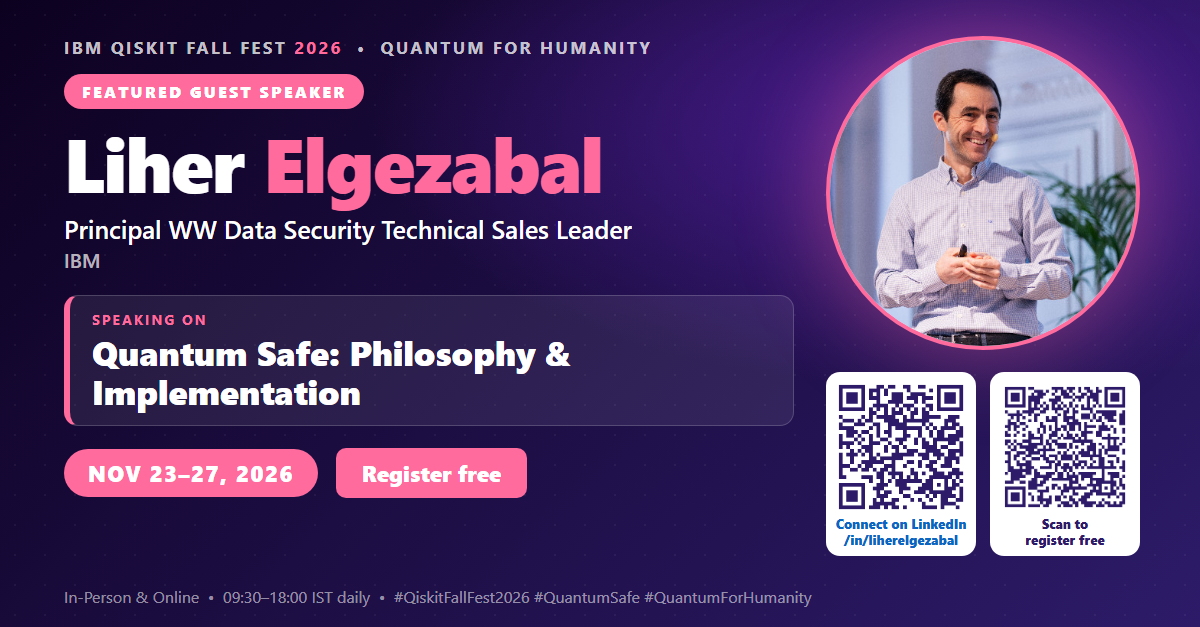
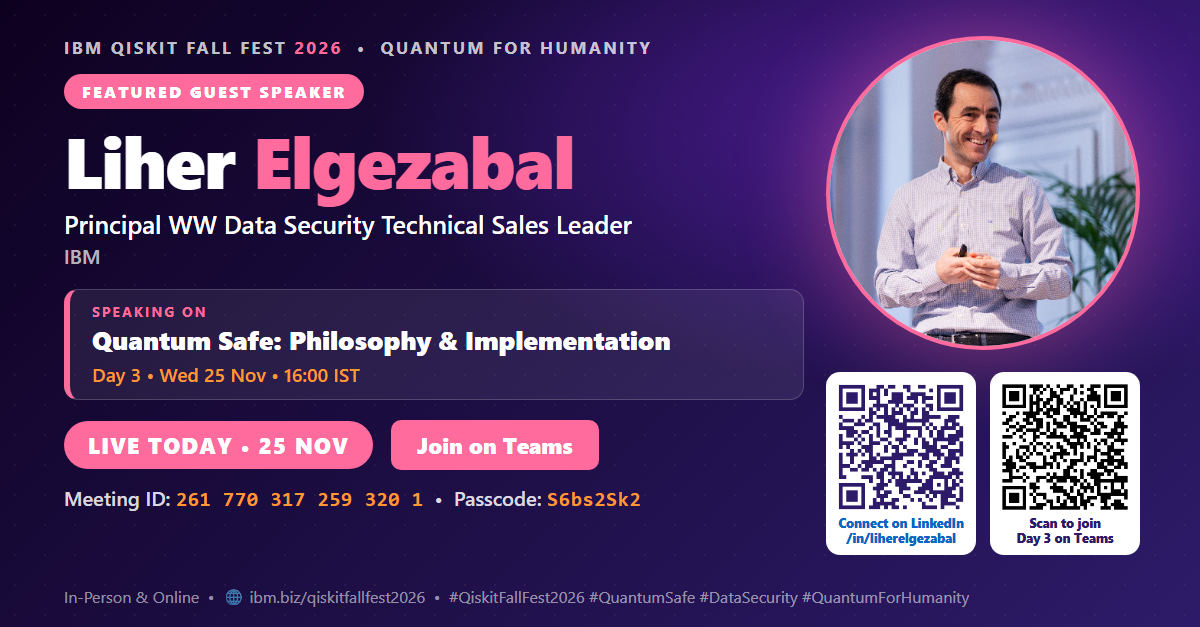
Day 3 individual speaker ads: live today, Teams QR, meeting ID and passcode

diff --git a/Advertisements/source/speaker-liher-ad.html b/Advertisements/source/speaker-liher-ad.html
@@ -2,19 +2,19 @@
 <html><head><meta charset="utf-8"><link rel="stylesheet" href="common.css">
 <style>
 .ad{width:1200px;height:627px}
-.left{position:absolute;left:64px;top:36px;width:730px}
+.left{position:absolute;left:64px;top:36px;width:740px}
 .event{font-size:17px;font-weight:700;letter-spacing:.14em;text-transform:uppercase;color:rgba(255,255,255,.75)}
 .event b{color:#FF6B9D;font-weight:700}
 .tag{display:inline-block;margin-top:16px;background:#FF6B9D;color:#fff;font-weight:800;letter-spacing:.14em;text-transform:uppercase;font-size:16px;padding:7px 18px;border-radius:999px}
-h1{font-size:76px;line-height:1.02;font-weight:800;letter-spacing:-.02em;margin-top:14px}
+h1{font-size:72px;line-height:1.02;font-weight:800;letter-spacing:-.02em;margin-top:14px;white-space:nowrap}
 h1 .sn{color:#FF6B9D}
 .role{font-size:25px;font-weight:600;line-height:1.3;margin-top:12px;color:#fff}
 .role span{display:block;font-size:20px;font-weight:500;color:rgba(255,255,255,.7);margin-top:2px}
-.topic{margin-top:22px;background:rgba(255,255,255,.08);border:1px solid rgba(255,255,255,.18);border-left:6px solid #FF6B9D;border-radius:14px;padding:14px 22px}
+.topic{margin-top:20px;background:rgba(255,255,255,.08);border:1px solid rgba(255,255,255,.18);border-left:6px solid #FF6B9D;border-radius:14px;padding:12px 22px}
 .topic small{display:block;font-size:14px;font-weight:700;letter-spacing:.14em;text-transform:uppercase;color:#FF6B9D}
-.topic strong{display:block;font-size:34px;line-height:1.15;font-weight:800;margin-top:4px}
-.topic em{display:block;font-style:normal;font-size:18px;color:rgba(255,255,255,.8);margin-top:6px}
-.row{margin-top:22px;display:flex;align-items:center;gap:18px}
+.topic strong{display:block;font-size:26px;line-height:1.15;font-weight:800;margin-top:4px}
+.topic em{display:block;font-style:normal;font-size:19px;font-weight:600;color:#FF9933;margin-top:6px}
+.row{margin-top:20px;display:flex;align-items:center;gap:18px}
 .row .chip{font-size:22px;padding:9px 24px}
 .row .cta{font-size:22px;padding:10px 26px;border-radius:10px}
 .hero{position:absolute;right:60px;top:36px;width:314px;height:314px;border:4px solid #FF6B9D}
@@ -22,7 +22,7 @@ h1 .sn{color:#FF6B9D}
 .qrs{position:absolute;right:60px;top:372px;display:flex;gap:14px}
 .qr{background:#fff;border-radius:14px;padding:9px;width:150px;text-align:center}
 .qr img{width:100%;display:block}
-.qr span{display:block;color:#2D1B69;font-weight:800;font-size:13px;margin-top:3px;line-height:1.2}
+.qr span{display:block;color:#2D1B69;font-weight:800;font-size:12.5px;margin-top:3px;line-height:1.2}
 .qr.li span{color:#0A66C2}
 .foot{position:absolute;left:64px;bottom:20px;font-size:16px;color:rgba(255,255,255,.55)}
 </style></head><body>
@@ -35,13 +35,15 @@ h1 .sn{color:#FF6B9D}
     <div class="topic">
       <small>Speaking on</small>
       <strong>Quantum Safe: Philosophy &amp; Implementation</strong>
+      <em>Day 3 &bull; Wed 25 Nov &bull; 16:00 IST</em>
     </div>
-    <div class="row"><span class="chip">NOV 23&ndash;27, 2026</span><span class="cta">Register free</span></div>
+    <div class="row"><span class="chip">LIVE TODAY &bull; 25 NOV</span><span class="cta">Join on Teams</span></div>
+    <div class="join">Meeting ID: <b>261 770 317 259 320 1</b> &nbsp;&bull;&nbsp; Passcode: <b>S6bs2Sk2</b></div>
   </div>
   <div class="circle hero"><img src="../../Guest%20Spekaers/Liher%20Elgezabal.jpg"></div>
   <div class="qrs">
     <div class="qr li"><img src="qr-linkedin-liher.png"><span>Connect on LinkedIn<br>/in/liherelgezabal</span></div>
-    <div class="qr"><img src="qr-register.png"><span>Scan to<br>register free</span></div>
+    <div class="qr"><img src="qr-teams-day3.png"><span>Scan to join<br>Day 3 on Teams</span></div>
   </div>
-  <div class="foot">In-Person &amp; Online &nbsp;&bull;&nbsp; 09:30&ndash;18:00 IST daily &nbsp;&bull;&nbsp; #QiskitFallFest2026 #QuantumSafe #QuantumForHumanity</div>
+  <div class="foot">In-Person &amp; Online &nbsp;&bull;&nbsp; &#127760; ibm.biz/qiskitfallfest2026 &nbsp;&bull;&nbsp; #QiskitFallFest2026 #QuantumSafe #DataSecurity #QuantumForHumanity</div>
 </div></body></html>

diff --git a/Advertisements/source/speaker-puneet-sharma-ad.html b/Advertisements/source/speaker-puneet-sharma-ad.html
@@ -1,0 +1,49 @@
+<!DOCTYPE html>
+<html><head><meta charset="utf-8"><link rel="stylesheet" href="common.css">
+<style>
+.ad{width:1200px;height:627px}
+.left{position:absolute;left:64px;top:36px;width:740px}
+.event{font-size:17px;font-weight:700;letter-spacing:.14em;text-transform:uppercase;color:rgba(255,255,255,.75)}
+.event b{color:#FF6B9D;font-weight:700}
+.tag{display:inline-block;margin-top:16px;background:#FF6B9D;color:#fff;font-weight:800;letter-spacing:.14em;text-transform:uppercase;font-size:16px;padding:7px 18px;border-radius:999px}
+h1{font-size:76px;line-height:1.02;font-weight:800;letter-spacing:-.02em;margin-top:14px;white-space:nowrap}
+h1 .sn{color:#FF6B9D}
+.role{font-size:25px;font-weight:600;line-height:1.3;margin-top:12px;color:#fff}
+.role span{display:block;font-size:20px;font-weight:500;color:rgba(255,255,255,.7);margin-top:2px}
+.topic{margin-top:20px;background:rgba(255,255,255,.08);border:1px solid rgba(255,255,255,.18);border-left:6px solid #FF6B9D;border-radius:14px;padding:12px 22px}
+.topic small{display:block;font-size:14px;font-weight:700;letter-spacing:.14em;text-transform:uppercase;color:#FF6B9D}
+.topic strong{display:block;font-size:30px;line-height:1.15;font-weight:800;margin-top:4px}
+.topic em{display:block;font-style:normal;font-size:19px;font-weight:600;color:#FF9933;margin-top:6px}
+.row{margin-top:20px;display:flex;align-items:center;gap:18px}
+.row .chip{font-size:22px;padding:9px 24px}
+.row .cta{font-size:22px;padding:10px 26px;border-radius:10px}
+.hero{position:absolute;right:60px;top:36px;width:314px;height:314px;border:4px solid #FF6B9D}
+.hero img{object-position:center 20%}
+.qrs{position:absolute;right:60px;top:372px;display:flex;gap:14px}
+.qr{background:#fff;border-radius:14px;padding:9px;width:150px;text-align:center}
+.qr img{width:100%;display:block}
+.qr span{display:block;color:#2D1B69;font-weight:800;font-size:12.5px;margin-top:3px;line-height:1.2}
+.qr.li span{color:#0A66C2}
+.foot{position:absolute;left:64px;bottom:20px;font-size:16px;color:rgba(255,255,255,.55)}
+</style></head><body>
+<div class="ad"><div class="dots"></div>
+  <div class="left">
+    <div class="event">IBM Qiskit Fall Fest <b>2026</b> &nbsp;&bull;&nbsp; Quantum for Humanity</div>
+    <div class="tag">Featured Guest Speaker</div>
+    <h1>Puneet <span class="sn">Sharma</span></h1>
+    <div class="role">Architect, IBM<span>Data Security &amp; Threat Management</span></div>
+    <div class="topic">
+      <small>Speaking on</small>
+      <strong>Architectural POV: IBM Quantum Safe Software</strong>
+      <em>Day 3 &bull; Wed 25 Nov &bull; 12:00 IST</em>
+    </div>
+    <div class="row"><span class="chip">LIVE TODAY &bull; 25 NOV</span><span class="cta">Join on Teams</span></div>
+    <div class="join">Meeting ID: <b>261 770 317 259 320 1</b> &nbsp;&bull;&nbsp; Passcode: <b>S6bs2Sk2</b></div>
+  </div>
+  <div class="circle hero"><img src="../../Guest%20Spekaers/Puneet%20Sharma.png"></div>
+  <div class="qrs">
+    <div class="qr"><img src="qr-website.png"><span>Event website<br>qiskitfallfest2026</span></div>
+    <div class="qr"><img src="qr-teams-day3.png"><span>Scan to join<br>Day 3 on Teams</span></div>
+  </div>
+  <div class="foot">In-Person &amp; Online &nbsp;&bull;&nbsp; &#127760; ibm.biz/qiskitfallfest2026 &nbsp;&bull;&nbsp; #QiskitFallFest2026 #QuantumSafe #CryptographicAssets #QuantumForHumanity</div>
+</div></body></html>

diff --git a/Advertisements/source/speaker-shruti-kulkarni-ad.html b/Advertisements/source/speaker-shruti-kulkarni-ad.html
@@ -1,0 +1,49 @@
+<!DOCTYPE html>
+<html><head><meta charset="utf-8"><link rel="stylesheet" href="common.css">
+<style>
+.ad{width:1200px;height:627px}
+.left{position:absolute;left:64px;top:36px;width:740px}
+.event{font-size:17px;font-weight:700;letter-spacing:.14em;text-transform:uppercase;color:rgba(255,255,255,.75)}
+.event b{color:#FF6B9D;font-weight:700}
+.tag{display:inline-block;margin-top:16px;background:#FF6B9D;color:#fff;font-weight:800;letter-spacing:.14em;text-transform:uppercase;font-size:16px;padding:7px 18px;border-radius:999px}
+h1{font-size:72px;line-height:1.02;font-weight:800;letter-spacing:-.02em;margin-top:14px;white-space:nowrap}
+h1 .sn{color:#FF6B9D}
+.role{font-size:25px;font-weight:600;line-height:1.3;margin-top:12px;color:#fff}
+.role span{display:block;font-size:20px;font-weight:500;color:rgba(255,255,255,.7);margin-top:2px}
+.topic{margin-top:20px;background:rgba(255,255,255,.08);border:1px solid rgba(255,255,255,.18);border-left:6px solid #FF6B9D;border-radius:14px;padding:12px 22px}
+.topic small{display:block;font-size:14px;font-weight:700;letter-spacing:.14em;text-transform:uppercase;color:#FF6B9D}
+.topic strong{display:block;font-size:34px;line-height:1.15;font-weight:800;margin-top:4px}
+.topic em{display:block;font-style:normal;font-size:19px;font-weight:600;color:#FF9933;margin-top:6px}
+.row{margin-top:20px;display:flex;align-items:center;gap:18px}
+.row .chip{font-size:22px;padding:9px 24px}
+.row .cta{font-size:22px;padding:10px 26px;border-radius:10px}
+.hero{position:absolute;right:60px;top:36px;width:314px;height:314px;border:4px solid #FF6B9D}
+.hero img{object-position:center 20%}
+.qrs{position:absolute;right:60px;top:372px;display:flex;gap:14px}
+.qr{background:#fff;border-radius:14px;padding:9px;width:150px;text-align:center}
+.qr img{width:100%;display:block}
+.qr span{display:block;color:#2D1B69;font-weight:800;font-size:12.5px;margin-top:3px;line-height:1.2}
+.qr.li span{color:#0A66C2}
+.foot{position:absolute;left:64px;bottom:20px;font-size:16px;color:rgba(255,255,255,.55)}
+</style></head><body>
+<div class="ad"><div class="dots"></div>
+  <div class="left">
+    <div class="event">IBM Qiskit Fall Fest <b>2026</b> &nbsp;&bull;&nbsp; Quantum for Humanity</div>
+    <div class="tag">Featured Guest Speaker</div>
+    <h1>Shruti <span class="sn">Kulkarni</span></h1>
+    <div class="role">Architect, IBM Payments Center<span>Digital Assets | Tokenization | Quantum Safe | Cloud</span></div>
+    <div class="topic">
+      <small>Speaking on</small>
+      <strong>Quantum Safe Fundamentals</strong>
+      <em>Day 3 &bull; Wed 25 Nov &bull; 10:30 IST</em>
+    </div>
+    <div class="row"><span class="chip">LIVE TODAY &bull; 25 NOV</span><span class="cta">Join on Teams</span></div>
+    <div class="join">Meeting ID: <b>261 770 317 259 320 1</b> &nbsp;&bull;&nbsp; Passcode: <b>S6bs2Sk2</b></div>
+  </div>
+  <div class="circle hero"><img src="../../Guest%20Spekaers/Shruti%20Kulkarni.jpg"></div>
+  <div class="qrs">
+    <div class="qr"><img src="qr-website.png"><span>Event website<br>qiskitfallfest2026</span></div>
+    <div class="qr"><img src="qr-teams-day3.png"><span>Scan to join<br>Day 3 on Teams</span></div>
+  </div>
+  <div class="foot">In-Person &amp; Online &nbsp;&bull;&nbsp; &#127760; ibm.biz/qiskitfallfest2026 &nbsp;&bull;&nbsp; #QiskitFallFest2026 #QuantumSafe #PQC #QuantumForHumanity</div>
+</div></body></html>

diff --git a/Advertisements/source/speaker-yogendra-soni-ad.html b/Advertisements/source/speaker-yogendra-soni-ad.html
@@ -1,0 +1,49 @@
+<!DOCTYPE html>
+<html><head><meta charset="utf-8"><link rel="stylesheet" href="common.css">
+<style>
+.ad{width:1200px;height:627px}
+.left{position:absolute;left:64px;top:36px;width:740px}
+.event{font-size:17px;font-weight:700;letter-spacing:.14em;text-transform:uppercase;color:rgba(255,255,255,.75)}
+.event b{color:#FF6B9D;font-weight:700}
+.tag{display:inline-block;margin-top:16px;background:#FF6B9D;color:#fff;font-weight:800;letter-spacing:.14em;text-transform:uppercase;font-size:16px;padding:7px 18px;border-radius:999px}
+h1{font-size:76px;line-height:1.02;font-weight:800;letter-spacing:-.02em;margin-top:14px;white-space:nowrap}
+h1 .sn{color:#FF6B9D}
+.role{font-size:25px;font-weight:600;line-height:1.3;margin-top:12px;color:#fff}
+.role span{display:block;font-size:20px;font-weight:500;color:rgba(255,255,255,.7);margin-top:2px}
+.topic{margin-top:20px;background:rgba(255,255,255,.08);border:1px solid rgba(255,255,255,.18);border-left:6px solid #FF6B9D;border-radius:14px;padding:12px 22px}
+.topic small{display:block;font-size:14px;font-weight:700;letter-spacing:.14em;text-transform:uppercase;color:#FF6B9D}
+.topic strong{display:block;font-size:26px;line-height:1.15;font-weight:800;margin-top:4px}
+.topic em{display:block;font-style:normal;font-size:19px;font-weight:600;color:#FF9933;margin-top:6px}
+.row{margin-top:20px;display:flex;align-items:center;gap:18px}
+.row .chip{font-size:22px;padding:9px 24px}
+.row .cta{font-size:22px;padding:10px 26px;border-radius:10px}
+.hero{position:absolute;right:60px;top:36px;width:314px;height:314px;border:4px solid #FF6B9D}
+.hero img{object-position:center 20%}
+.qrs{position:absolute;right:60px;top:372px;display:flex;gap:14px}
+.qr{background:#fff;border-radius:14px;padding:9px;width:150px;text-align:center}
+.qr img{width:100%;display:block}
+.qr span{display:block;color:#2D1B69;font-weight:800;font-size:12.5px;margin-top:3px;line-height:1.2}
+.qr.li span{color:#0A66C2}
+.foot{position:absolute;left:64px;bottom:20px;font-size:16px;color:rgba(255,255,255,.55)}
+</style></head><body>
+<div class="ad"><div class="dots"></div>
+  <div class="left">
+    <div class="event">IBM Qiskit Fall Fest <b>2026</b> &nbsp;&bull;&nbsp; Quantum for Humanity</div>
+    <div class="tag">Featured Guest Speaker</div>
+    <h1>Yogendra <span class="sn">Soni</span></h1>
+    <div class="role">Program Director, IBM Quantum Safe Products<span>IBM Software</span></div>
+    <div class="topic">
+      <small>Speaking on</small>
+      <strong>Data-Driven PQC Migration Planning with IBM Quantum Safe</strong>
+      <em>Day 3 &bull; Wed 25 Nov &bull; 14:00 IST</em>
+    </div>
+    <div class="row"><span class="chip">LIVE TODAY &bull; 25 NOV</span><span class="cta">Join on Teams</span></div>
+    <div class="join">Meeting ID: <b>261 770 317 259 320 1</b> &nbsp;&bull;&nbsp; Passcode: <b>S6bs2Sk2</b></div>
+  </div>
+  <div class="circle hero"><img src="../../Guest%20Spekaers/Yogendra%20Soni.png"></div>
+  <div class="qrs">
+    <div class="qr"><img src="qr-website.png"><span>Event website<br>qiskitfallfest2026</span></div>
+    <div class="qr"><img src="qr-teams-day3.png"><span>Scan to join<br>Day 3 on Teams</span></div>
+  </div>
+  <div class="foot">In-Person &amp; Online &nbsp;&bull;&nbsp; &#127760; ibm.biz/qiskitfallfest2026 &nbsp;&bull;&nbsp; #QiskitFallFest2026 #PQC #QuantumSafe #QuantumForHumanity</div>
+</div></body></html>

diff --git a/Advertisements/source/speaker-puneet-sharma-square.html b/Advertisements/source/speaker-puneet-sharma-square.html
@@ -1,0 +1,33 @@
+<!DOCTYPE html>
+<html><head><meta charset="utf-8"><link rel="stylesheet" href="common.css">
+<style>
+.ad{width:1080px;height:1080px;text-align:center;padding-top:52px}
+.event{font-size:19px;font-weight:700;letter-spacing:.14em;text-transform:uppercase;color:rgba(255,255,255,.75)}
+.event b{color:#FF6B9D}
+.tag{display:inline-block;margin-top:18px;background:#FF6B9D;color:#fff;font-weight:800;letter-spacing:.14em;text-transform:uppercase;font-size:18px;padding:8px 22px;border-radius:999px}
+.hero{width:330px;height:330px;margin:24px auto 0;border:4px solid #FF6B9D}
+.hero img{object-position:center 20%}
+h1{font-size:84px;line-height:1.02;font-weight:800;letter-spacing:-.02em;margin-top:24px;white-space:nowrap}
+h1 .sn{color:#FF6B9D}
+.role{font-size:28px;font-weight:600;margin-top:10px;padding:0 40px}
+.role span{display:block;font-size:22px;font-weight:500;color:rgba(255,255,255,.7);margin-top:2px}
+.topic{margin:22px auto 0;width:860px;background:rgba(255,255,255,.08);border:1px solid rgba(255,255,255,.18);border-radius:16px;padding:12px 22px}
+.topic small{display:block;font-size:15px;font-weight:700;letter-spacing:.14em;text-transform:uppercase;color:#FF6B9D}
+.topic strong{display:block;font-size:34px;line-height:1.15;font-weight:800;margin-top:4px}
+.topic em{display:block;font-style:normal;font-size:22px;font-weight:600;color:#FF9933;margin-top:6px}
+.row{margin-top:22px;display:flex;justify-content:center;align-items:center;gap:20px}
+.row .chip{font-size:26px;padding:10px 28px}
+.row .cta{font-size:26px;padding:12px 30px;border-radius:12px}
+.foot{position:absolute;left:0;right:0;bottom:24px;font-size:17px;color:rgba(255,255,255,.6);padding:0 30px}
+</style></head><body>
+<div class="ad"><div class="dots"></div>
+  <div class="event">IBM Qiskit Fall Fest <b>2026</b> &nbsp;&bull;&nbsp; Quantum for Humanity</div>
+  <div class="tag">Featured Guest Speaker</div>
+  <div class="circle hero"><img src="../../Guest%20Spekaers/Puneet%20Sharma.png"></div>
+  <h1>Puneet <span class="sn">Sharma</span></h1>
+  <div class="role">Architect, IBM<span>Data Security &amp; Threat Management</span></div>
+  <div class="topic"><small>Speaking on</small><strong>Architectural POV: IBM Quantum Safe Software</strong><em>Day 3 &bull; Wed 25 Nov &bull; 12:00 IST</em></div>
+  <div class="row"><span class="chip">LIVE TODAY &bull; 25 NOV</span><span class="cta">Join on Teams</span></div>
+    <div class="join" style="font-size:25px">Meeting ID: <b>261 770 317 259 320 1</b> &nbsp;&bull;&nbsp; Passcode: <b>S6bs2Sk2</b></div>
+  <div class="foot">In-Person &amp; Online &bull; &#127760; ibm.biz/qiskitfallfest2026 &bull; #QiskitFallFest2026 #QuantumSafe #CryptographicAssets #QuantumForHumanity</div>
+</div></body></html>

diff --git a/Advertisements/source/speaker-shruti-kulkarni-square.html b/Advertisements/source/speaker-shruti-kulkarni-square.html
@@ -1,0 +1,33 @@
+<!DOCTYPE html>
+<html><head><meta charset="utf-8"><link rel="stylesheet" href="common.css">
+<style>
+.ad{width:1080px;height:1080px;text-align:center;padding-top:52px}
+.event{font-size:19px;font-weight:700;letter-spacing:.14em;text-transform:uppercase;color:rgba(255,255,255,.75)}
+.event b{color:#FF6B9D}
+.tag{display:inline-block;margin-top:18px;background:#FF6B9D;color:#fff;font-weight:800;letter-spacing:.14em;text-transform:uppercase;font-size:18px;padding:8px 22px;border-radius:999px}
+.hero{width:330px;height:330px;margin:24px auto 0;border:4px solid #FF6B9D}
+.hero img{object-position:center 20%}
+h1{font-size:74px;line-height:1.02;font-weight:800;letter-spacing:-.02em;margin-top:24px;white-space:nowrap}
+h1 .sn{color:#FF6B9D}
+.role{font-size:28px;font-weight:600;margin-top:10px;padding:0 40px}
+.role span{display:block;font-size:22px;font-weight:500;color:rgba(255,255,255,.7);margin-top:2px}
+.topic{margin:22px auto 0;width:860px;background:rgba(255,255,255,.08);border:1px solid rgba(255,255,255,.18);border-radius:16px;padding:12px 22px}
+.topic small{display:block;font-size:15px;font-weight:700;letter-spacing:.14em;text-transform:uppercase;color:#FF6B9D}
+.topic strong{display:block;font-size:40px;line-height:1.15;font-weight:800;margin-top:4px}
+.topic em{display:block;font-style:normal;font-size:22px;font-weight:600;color:#FF9933;margin-top:6px}
+.row{margin-top:22px;display:flex;justify-content:center;align-items:center;gap:20px}
+.row .chip{font-size:26px;padding:10px 28px}
+.row .cta{font-size:26px;padding:12px 30px;border-radius:12px}
+.foot{position:absolute;left:0;right:0;bottom:24px;font-size:17px;color:rgba(255,255,255,.6);padding:0 30px}
+</style></head><body>
+<div class="ad"><div class="dots"></div>
+  <div class="event">IBM Qiskit Fall Fest <b>2026</b> &nbsp;&bull;&nbsp; Quantum for Humanity</div>
+  <div class="tag">Featured Guest Speaker</div>
+  <div class="circle hero"><img src="../../Guest%20Spekaers/Shruti%20Kulkarni.jpg"></div>
+  <h1>Shruti <span class="sn">Kulkarni</span></h1>
+  <div class="role">Architect, IBM Payments Center<span>Digital Assets | Tokenization | Quantum Safe | Cloud</span></div>
+  <div class="topic"><small>Speaking on</small><strong>Quantum Safe Fundamentals</strong><em>Day 3 &bull; Wed 25 Nov &bull; 10:30 IST</em></div>
+  <div class="row"><span class="chip">LIVE TODAY &bull; 25 NOV</span><span class="cta">Join on Teams</span></div>
+    <div class="join" style="font-size:25px">Meeting ID: <b>261 770 317 259 320 1</b> &nbsp;&bull;&nbsp; Passcode: <b>S6bs2Sk2</b></div>
+  <div class="foot">In-Person &amp; Online &bull; &#127760; ibm.biz/qiskitfallfest2026 &bull; #QiskitFallFest2026 #QuantumSafe #PQC #QuantumForHumanity</div>
+</div></body></html>

diff --git a/Advertisements/source/speaker-yogendra-soni-square.html b/Advertisements/source/speaker-yogendra-soni-square.html
@@ -1,0 +1,33 @@
+<!DOCTYPE html>
+<html><head><meta charset="utf-8"><link rel="stylesheet" href="common.css">
+<style>
+.ad{width:1080px;height:1080px;text-align:center;padding-top:52px}
+.event{font-size:19px;font-weight:700;letter-spacing:.14em;text-transform:uppercase;color:rgba(255,255,255,.75)}
+.event b{color:#FF6B9D}
+.tag{display:inline-block;margin-top:18px;background:#FF6B9D;color:#fff;font-weight:800;letter-spacing:.14em;text-transform:uppercase;font-size:18px;padding:8px 22px;border-radius:999px}
+.hero{width:330px;height:330px;margin:24px auto 0;border:4px solid #FF6B9D}
+.hero img{object-position:center 20%}
+h1{font-size:84px;line-height:1.02;font-weight:800;letter-spacing:-.02em;margin-top:24px;white-space:nowrap}
+h1 .sn{color:#FF6B9D}
+.role{font-size:28px;font-weight:600;margin-top:10px;padding:0 40px}
+.role span{display:block;font-size:22px;font-weight:500;color:rgba(255,255,255,.7);margin-top:2px}
+.topic{margin:22px auto 0;width:860px;background:rgba(255,255,255,.08);border:1px solid rgba(255,255,255,.18);border-radius:16px;padding:12px 22px}
+.topic small{display:block;font-size:15px;font-weight:700;letter-spacing:.14em;text-transform:uppercase;color:#FF6B9D}
+.topic strong{display:block;font-size:29px;line-height:1.15;font-weight:800;margin-top:4px}
+.topic em{display:block;font-style:normal;font-size:22px;font-weight:600;color:#FF9933;margin-top:6px}
+.row{margin-top:22px;display:flex;justify-content:center;align-items:center;gap:20px}
+.row .chip{font-size:26px;padding:10px 28px}
+.row .cta{font-size:26px;padding:12px 30px;border-radius:12px}
+.foot{position:absolute;left:0;right:0;bottom:24px;font-size:17px;color:rgba(255,255,255,.6);padding:0 30px}
+</style></head><body>
+<div class="ad"><div class="dots"></div>
+  <div class="event">IBM Qiskit Fall Fest <b>2026</b> &nbsp;&bull;&nbsp; Quantum for Humanity</div>
+  <div class="tag">Featured Guest Speaker</div>
+  <div class="circle hero"><img src="../../Guest%20Spekaers/Yogendra%20Soni.png"></div>
+  <h1>Yogendra <span class="sn">Soni</span></h1>
+  <div class="role">Program Director, IBM Quantum Safe Products<span>IBM Software</span></div>
+  <div class="topic"><small>Speaking on</small><strong>Data-Driven PQC Migration Planning with IBM Quantum Safe</strong><em>Day 3 &bull; Wed 25 Nov &bull; 14:00 IST</em></div>
+  <div class="row"><span class="chip">LIVE TODAY &bull; 25 NOV</span><span class="cta">Join on Teams</span></div>
+    <div class="join" style="font-size:25px">Meeting ID: <b>261 770 317 259 320 1</b> &nbsp;&bull;&nbsp; Passcode: <b>S6bs2Sk2</b></div>
+  <div class="foot">In-Person &amp; Online &bull; &#127760; ibm.biz/qiskitfallfest2026 &bull; #QiskitFallFest2026 #PQC #QuantumSafe #QuantumForHumanity</div>
+</div></body></html>

diff --git a/Advertisements/source/speaker-liher-square.html b/Advertisements/source/speaker-liher-square.html
@@ -1,0 +1,33 @@
+<!DOCTYPE html>
+<html><head><meta charset="utf-8"><link rel="stylesheet" href="common.css">
+<style>
+.ad{width:1080px;height:1080px;text-align:center;padding-top:52px}
+.event{font-size:19px;font-weight:700;letter-spacing:.14em;text-transform:uppercase;color:rgba(255,255,255,.75)}
+.event b{color:#FF6B9D}
+.tag{display:inline-block;margin-top:18px;background:#FF6B9D;color:#fff;font-weight:800;letter-spacing:.14em;text-transform:uppercase;font-size:18px;padding:8px 22px;border-radius:999px}
+.hero{width:330px;height:330px;margin:24px auto 0;border:4px solid #FF6B9D}
+.hero img{object-position:center 20%}
+h1{font-size:74px;line-height:1.02;font-weight:800;letter-spacing:-.02em;margin-top:24px;white-space:nowrap}
+h1 .sn{color:#FF6B9D}
+.role{font-size:28px;font-weight:600;margin-top:10px;padding:0 40px}
+.role span{display:block;font-size:22px;font-weight:500;color:rgba(255,255,255,.7);margin-top:2px}
+.topic{margin:22px auto 0;width:860px;background:rgba(255,255,255,.08);border:1px solid rgba(255,255,255,.18);border-radius:16px;padding:12px 22px}
+.topic small{display:block;font-size:15px;font-weight:700;letter-spacing:.14em;text-transform:uppercase;color:#FF6B9D}
+.topic strong{display:block;font-size:29px;line-height:1.15;font-weight:800;margin-top:4px}
+.topic em{display:block;font-style:normal;font-size:22px;font-weight:600;color:#FF9933;margin-top:6px}
+.row{margin-top:22px;display:flex;justify-content:center;align-items:center;gap:20px}
+.row .chip{font-size:26px;padding:10px 28px}
+.row .cta{font-size:26px;padding:12px 30px;border-radius:12px}
+.foot{position:absolute;left:0;right:0;bottom:24px;font-size:17px;color:rgba(255,255,255,.6);padding:0 30px}
+</style></head><body>
+<div class="ad"><div class="dots"></div>
+  <div class="event">IBM Qiskit Fall Fest <b>2026</b> &nbsp;&bull;&nbsp; Quantum for Humanity</div>
+  <div class="tag">Featured Guest Speaker</div>
+  <div class="circle hero"><img src="../../Guest%20Spekaers/Liher%20Elgezabal.jpg"></div>
+  <h1>Liher <span class="sn">Elgezabal</span></h1>
+  <div class="role">Principal WW Data Security Technical Sales Leader<span>IBM</span></div>
+  <div class="topic"><small>Speaking on</small><strong>Quantum Safe: Philosophy &amp; Implementation</strong><em>Day 3 &bull; Wed 25 Nov &bull; 16:00 IST</em></div>
+  <div class="row"><span class="chip">LIVE TODAY &bull; 25 NOV</span><span class="cta">Join on Teams</span></div>
+    <div class="join" style="font-size:25px">Meeting ID: <b>261 770 317 259 320 1</b> &nbsp;&bull;&nbsp; Passcode: <b>S6bs2Sk2</b></div>
+  <div class="foot">In-Person &amp; Online &bull; &#127760; ibm.biz/qiskitfallfest2026 &bull; #QiskitFallFest2026 #QuantumSafe #DataSecurity #QuantumForHumanity</div>
+</div></body></html>

diff --git a/Advertisements/source/common.css b/Advertisements/source/common.css
@@ -11,3 +11,5 @@ body{font-family:'Segoe UI',system-ui,Arial,sans-serif;color:#fff;overflow:hidde
 .circle{border-radius:50%;background:#D9E3FB;overflow:hidden;box-shadow:0 0 90px rgba(255,107,157,.45)}
 .circle img{width:100%;height:100%;object-fit:cover;display:block}
 .dots{position:absolute;inset:0;opacity:.05;background-image:radial-gradient(circle,#fff 1.5px,transparent 1.5px);background-size:30px 30px;pointer-events:none}
+.join{margin-top:14px;font-size:20px;font-weight:600;color:rgba(255,255,255,.85)}
+.join b{color:#FF9933;font-family:Consolas,monospace;letter-spacing:.04em}
